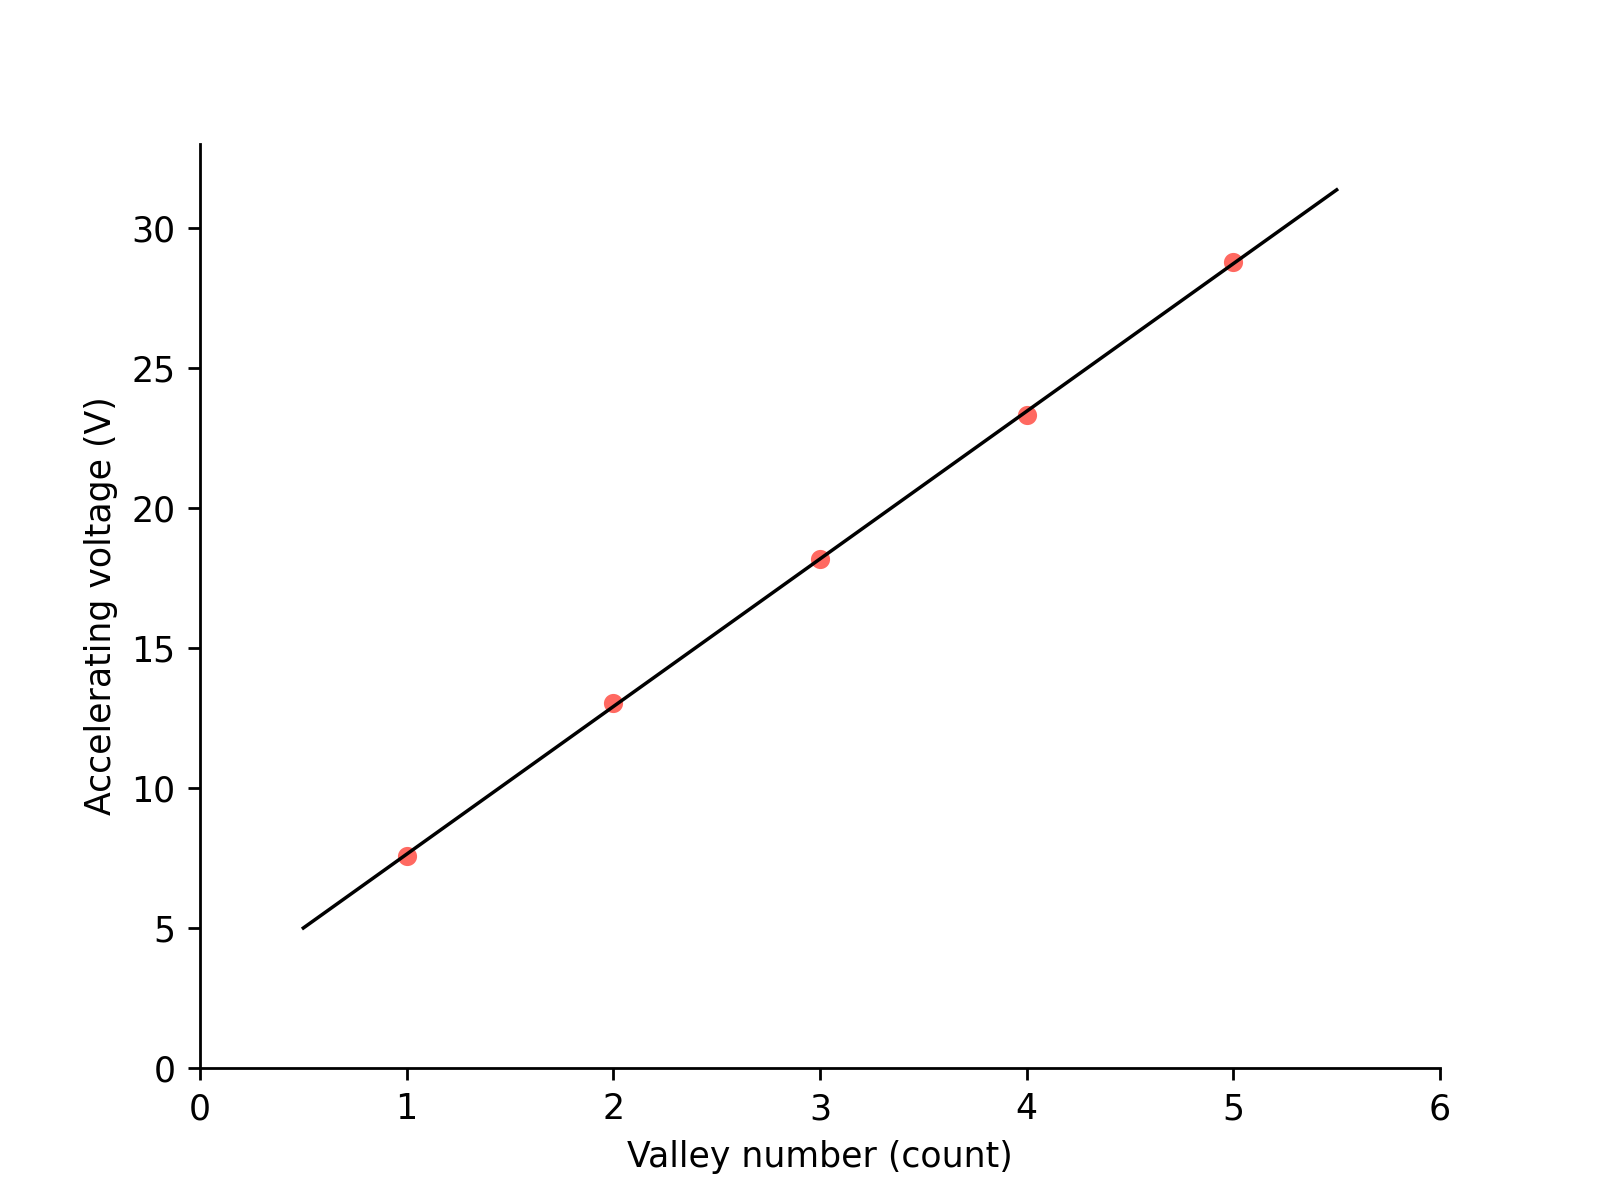
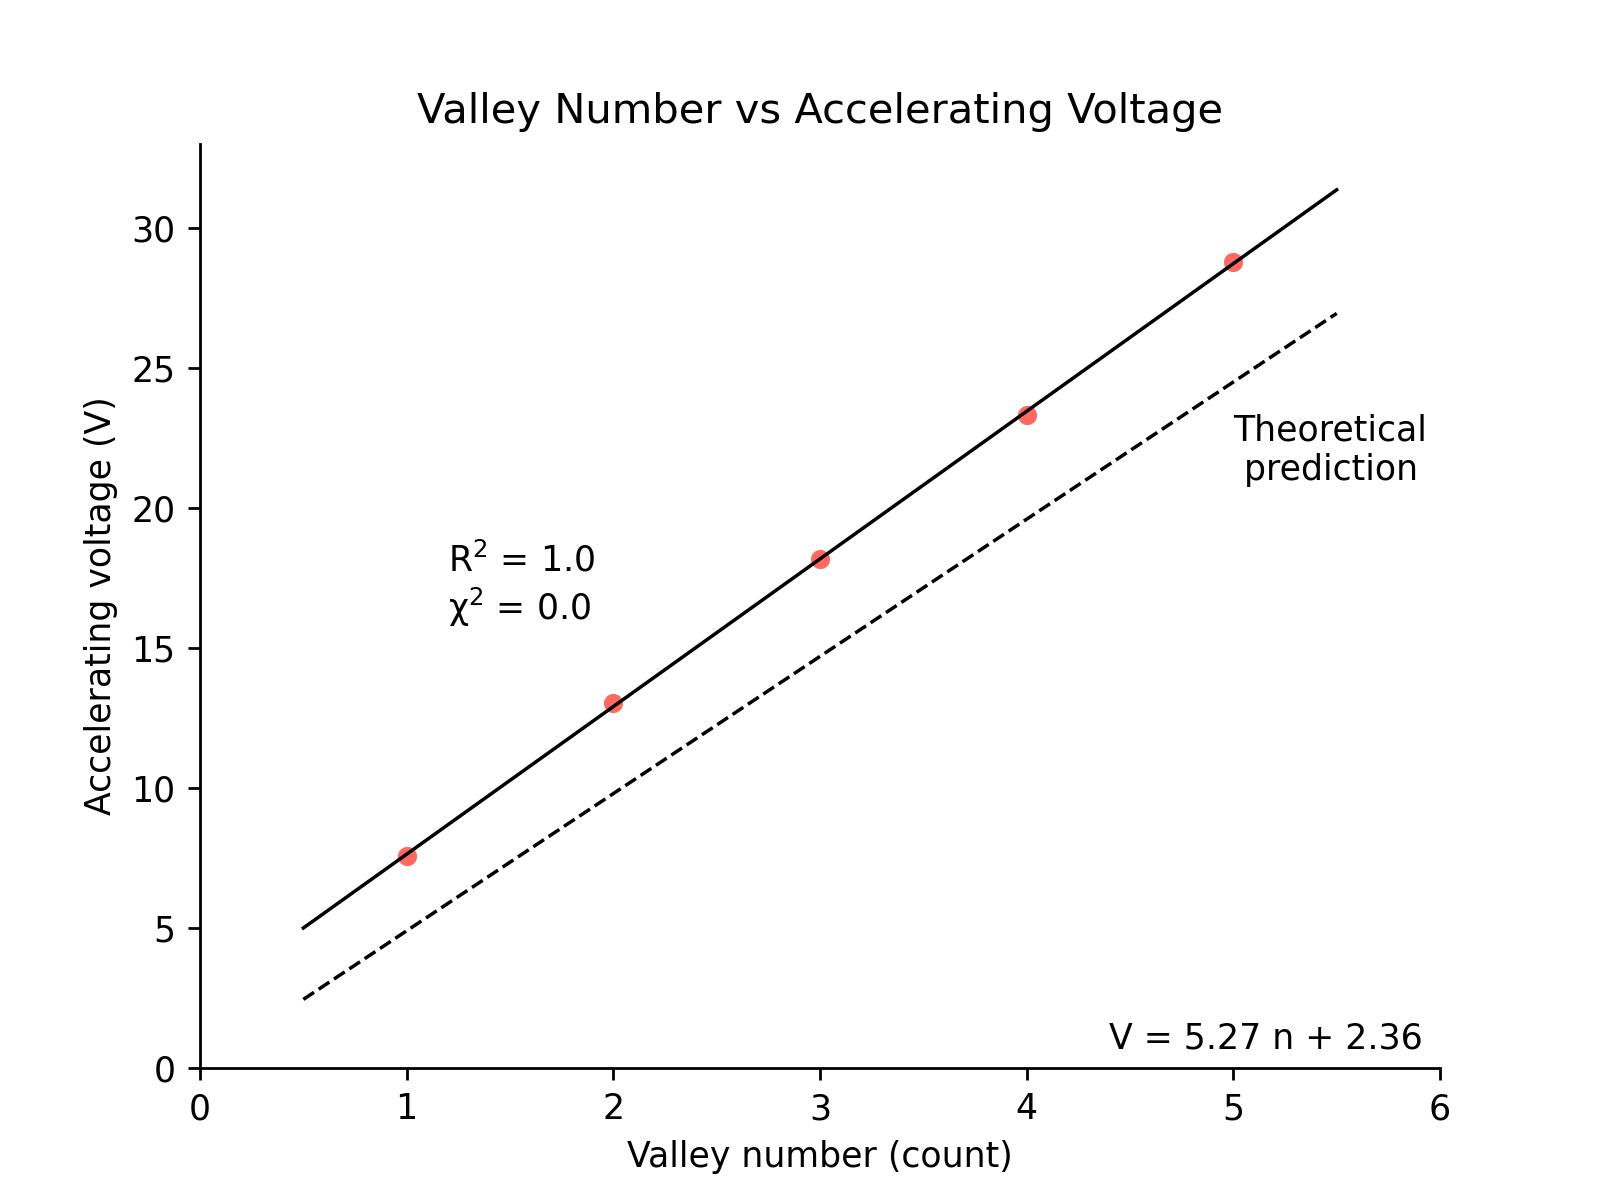
frank hertz experiment

diff --git a/Frank Hertz/analysis.py b/Frank Hertz/analysis.py
@@ -9,12 +9,14 @@ import statsmodels.api as sm
 for file in ['data2/data_2.txt', 'data2/data_4.txt',
              'data2/data_6.txt', 'data2/data_8.txt']:
     data = pd.read_csv(file, sep='\t')
-    sns.lineplot(x=data['CH1 (V)  '], y=100 * data['CH2 (V)'])
-    peaks, _ = find_peaks((-1) * data['CH2 (V)'].to_numpy(), distance=75)
-    plt.plot(data['CH1 (V)  '][peaks], 100 * data['CH2 (V)'][peaks], "x")
+    sns.lineplot(x=data['CH1 (V)  '], y= data['CH2 (V)'], color="k", lw=1)
 
 # Showing the plot
 sns.despine()
+plt.xlabel('Accelerating voltage (V)')
+plt.ylabel('Electrometer voltage (V)')
+plt.title('Accelerating vs Electrometer Voltage')
+plt.savefig('plots/multiple_lines', dpi=250)
 plt.show()
 
 # Taking the average after using interpolation to reformat the arrays
@@ -55,6 +57,10 @@ model = sm.OLS(pd.Series(x_range[peaks][1:]), variables[['count', 'const']]).fit
 print('\n\n', model.summary())
 a, b = 5.2727, 2.3636
 sns.lineplot(x=[0.5, 5.5], y=a*np.array([0.5, 5.5])+b, color='k', lw=1, alpha=1)
+plt.text(1.2, 16, 'R$^2$ = 1.0\nχ$^2$ = 0.0')
+plt.text(4.4, 0.7, "V = 5.27 n + 2.36")
+sns.lineplot(x=[0.5, 5.5], y=4.9*np.array([0.5, 5.5]), color='k', lw=1, alpha=1, ls='--')
+plt.text(5, 21, 'Theoretical\n prediction')
 
 # Scatter plot of the peaks
 sns.scatterplot(x=[1, 2, 3, 4, 5], y=x_range[peaks][1:], color=(1, 0.4118, 0.3804), alpha=1)
@@ -64,7 +70,15 @@ plt.xlim(0, 6)
 plt.ylim(0, 33)
 plt.xlabel('Valley number (count)')
 plt.ylabel('Accelerating voltage (V)')
+plt.title('Valley Number vs Accelerating Voltage')
 sns.despine()
 plt.savefig('plots/scatter_plot_extrema', dpi=250)
 plt.show()
 
+# Calculating the chi square
+x_values = np.array([1, 2, 3, 4, 5])
+expected = a * x_values + b
+chi_square = (np.array(x_range[peaks][1:]) - expected) ** 2 / expected
+chi_square = chi_square.sum()
+
+# E = 5.2727
